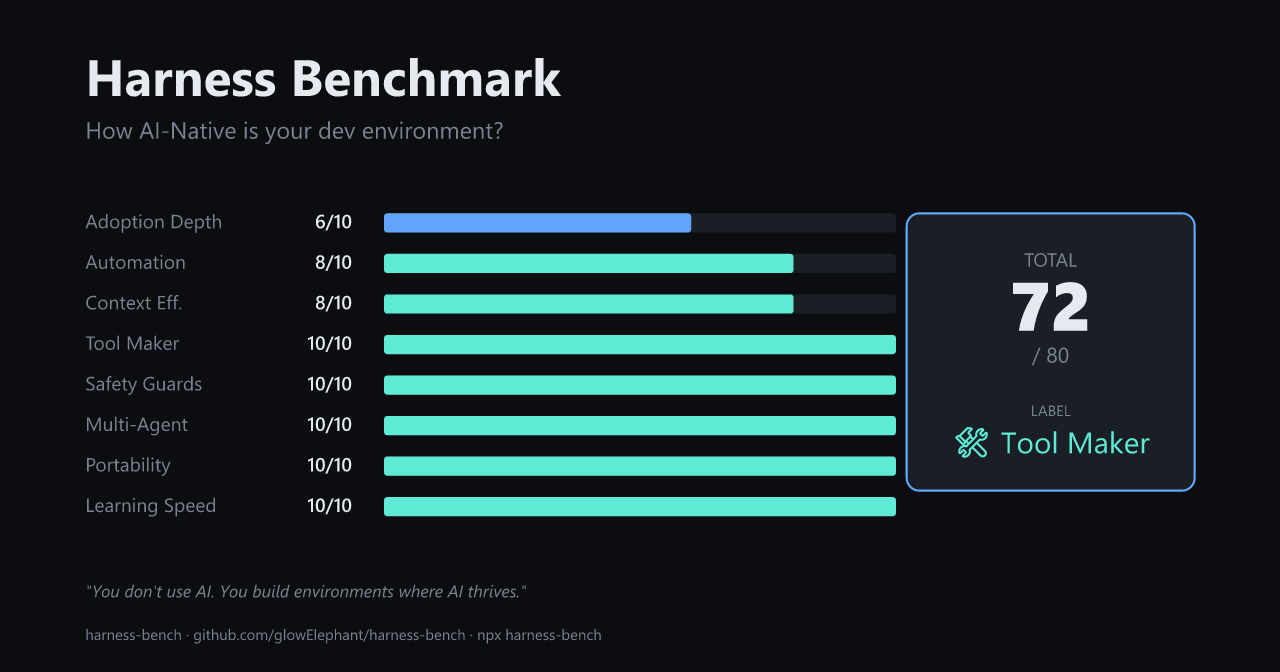
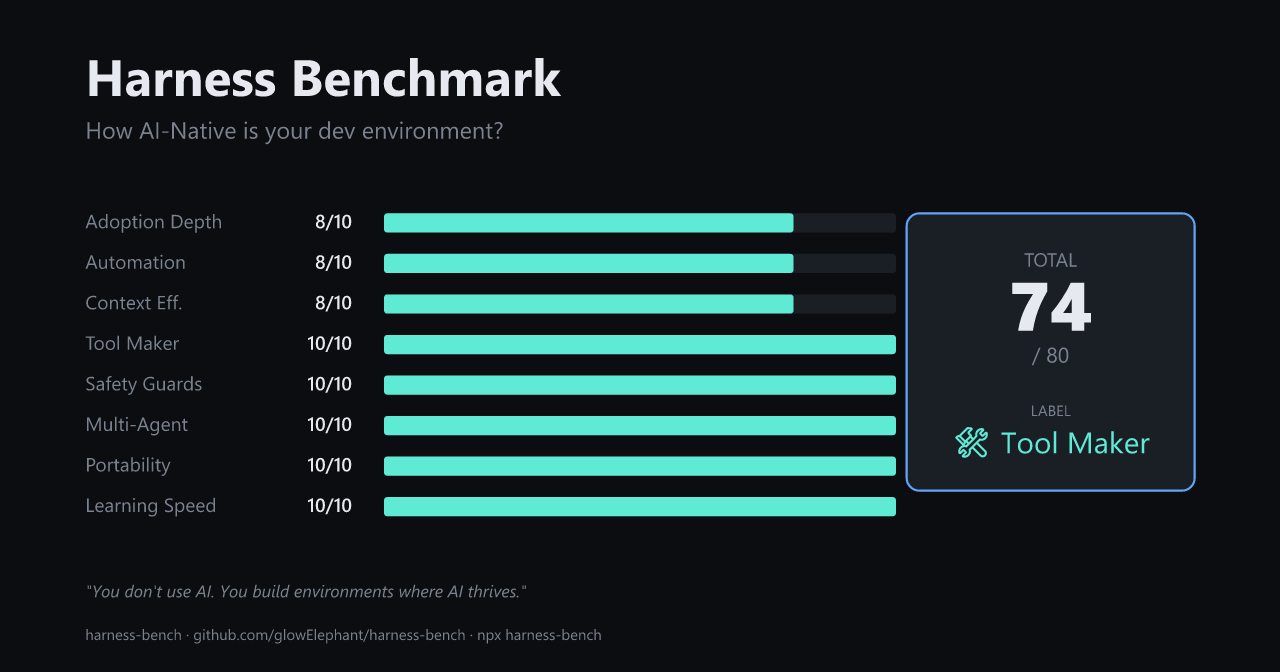
README 카드 v1.1 측정으로 갱신
- docs/sample-card.svg, sample-card.png 재생성
  · v0.2 → v1.1 측정 (env var 명시한 본인 환경)
  · 총점 74/80 — Tool Maker 유지
- README/README.ko 임베드 캐시 buster v=layout2 → v=v1.1
  · 브라우저 캐시 갱신 강제

Changed region(s): [[0.2812, 0.3125, 0.625, 0.3438], [0.8125, 0.4062, 0.875, 0.5]]

diff --git a/README.ko.md b/README.ko.md
@@ -8,7 +8,7 @@ npx harness-bench
 ```
 
 <p align="center">
-  <img src="docs/sample-card.svg?v=layout2" alt="샘플 점수 카드 — 저자 본인 셋업" width="780">
+  <img src="docs/sample-card.svg?v=v1.1" alt="샘플 점수 카드 — 저자 본인 셋업" width="780">
 </p>
 
 ## 왜 만들었나

diff --git a/README.md b/README.md
@@ -12,7 +12,7 @@ npx harness-bench
 ```
 
 <p align="center">
-  <img src="docs/sample-card.svg?v=layout2" alt="Sample score card — author's own setup" width="780">
+  <img src="docs/sample-card.svg?v=v1.1" alt="Sample score card — author's own setup" width="780">
 </p>
 
 <details>